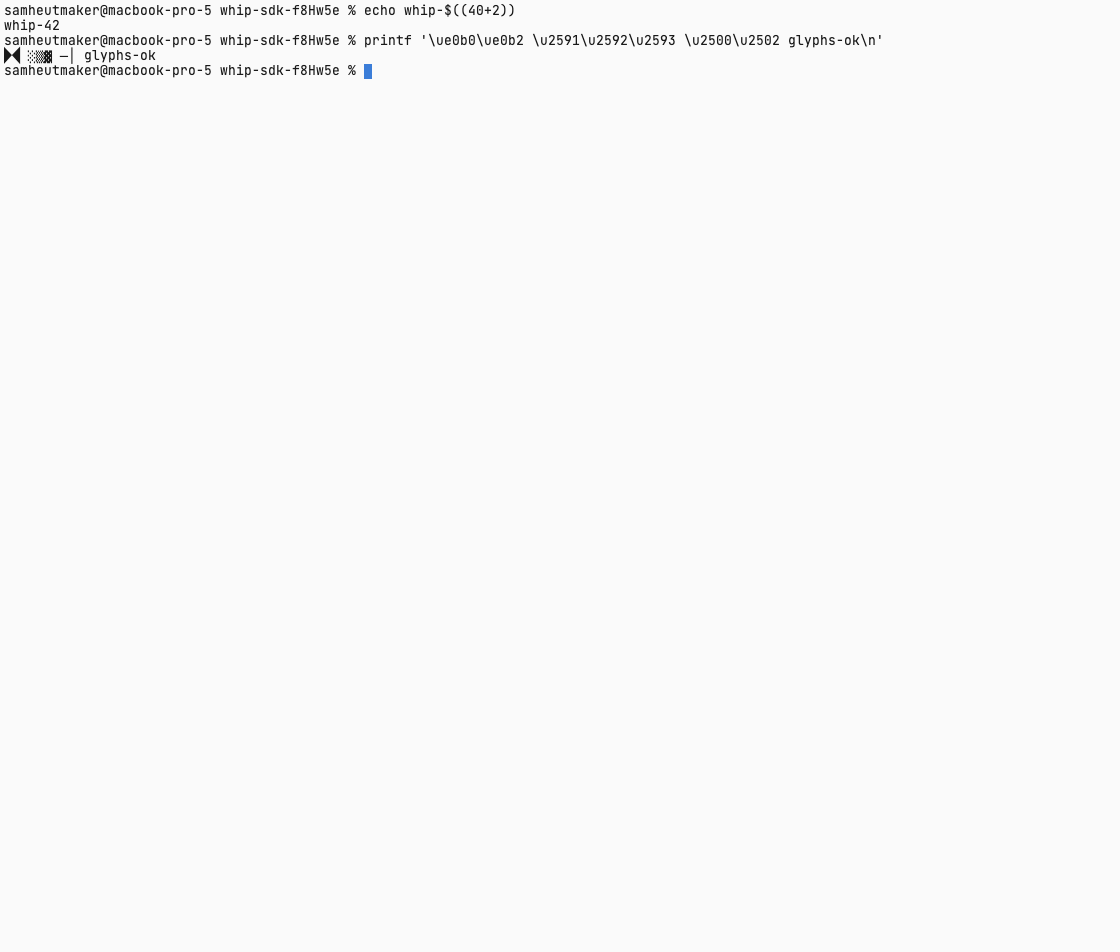
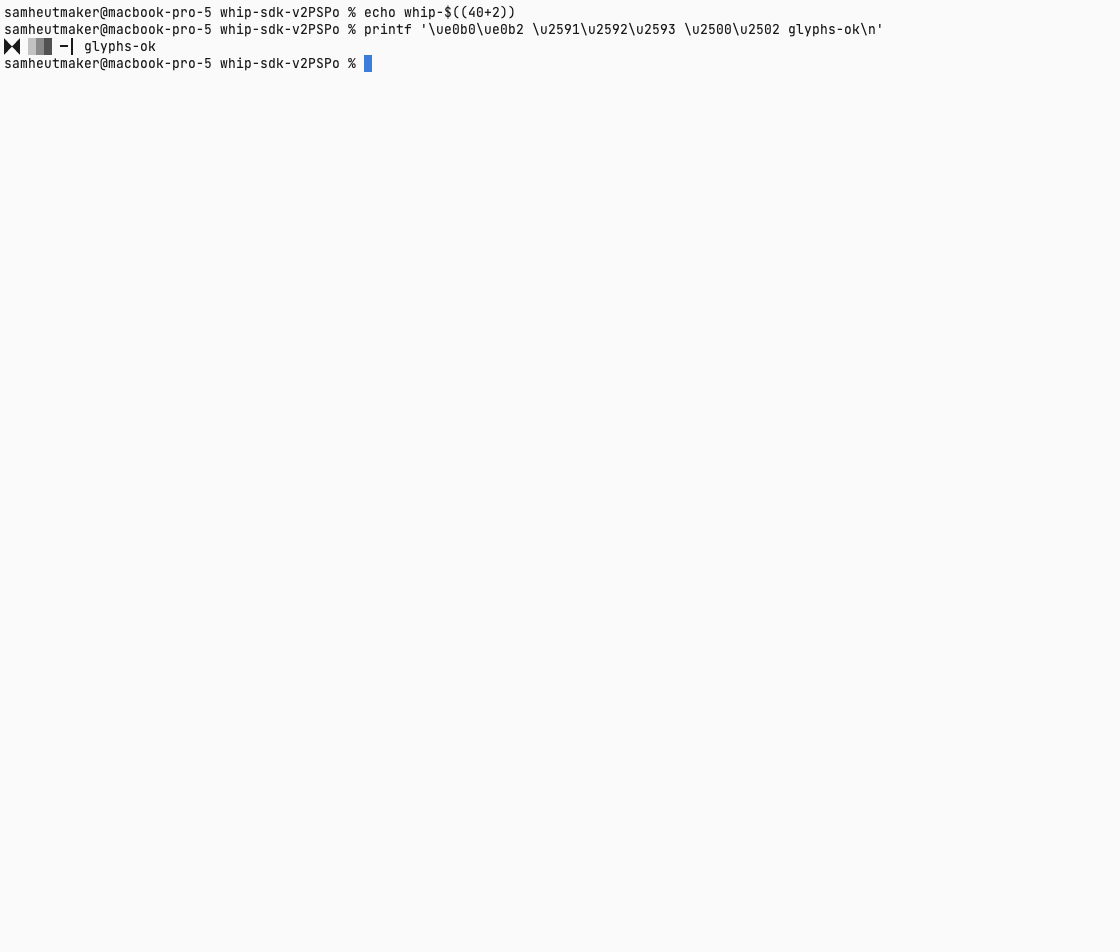
Draw terminal block and powerline glyphs with Ghostty's sprite font
Block elements such as the shade characters a powerline prompt opens with
rendered as JetBrains Mono's dot patterns, while OpenCode shows the same
prompt as smooth bands. Upstream ghostty-web draws every cell with the font.
OpenCode's fork exposes Ghostty's sprite font from the WASM and rasterizes
box drawing, block elements and powerline shapes procedurally, the way the
native Ghostty renderer does.

Switch the app's ghostty-web dependency to that fork, pinned to the commit
OpenCode ships. The fork commits its built assets, so installs need neither
Zig nor Bun; its WASM is 968 KB instead of 423 KB. The Nerd Font fallback
stays for glyphs outside the sprite set. The plan records the decision and
the path back to the npm release once upstream ships sprites.

Both browser fixtures pass with the fork, and the saved glyph screenshots
show solid separators and banded shade blocks.

Changed region(s): [[0.0, 0.0, 0.7812, 0.0914]]

diff --git a/.ai-docs/plans/terminal-tabs/README.md b/.ai-docs/plans/terminal-tabs/README.md
@@ -402,6 +402,15 @@ reader of the plan is not misled:
   ones supply the glyphs per character, absent ones are skipped. The view also waits for
   `document.fonts.ready` (2 s cap) because ghostty-web sizes cells from one measurement at open.
   The fixture prints the glyphs and saves `*-glyphs.png` for visual review.
+- **Renderer dependency is OpenCode's ghostty-web fork, pinned by commit.** Upstream
+  `ghostty-web@0.4.0` draws every cell with the font, so block elements such as `░▒▓` come
+  out as the font's dot patterns and powerline shapes need a Nerd Font. The `anomalyco/ghostty-web`
+  fork (`83c0a07b`, the commit OpenCode ships) exposes Ghostty's sprite font from the WASM and
+  rasterizes box drawing, block elements and powerline glyphs procedurally, which is how OpenCode
+  renders the same prompt as smooth bands and solid triangles. `packages/app/package.json` pins
+  `github:anomalyco/ghostty-web#83c0a07b…`; the fork commits its `dist/`, so installs need no Zig
+  or Bun. Its WASM is 968 KB instead of 423 KB. The Nerd Font fallback stays for glyphs outside the
+  sprite set, such as icon code points. Move back to the npm release when upstream ships sprites.
 - **Keystroke coalescing.** Each key was its own `terminal.write` RPC; typing faster than the
   round trip exceeded the SDK's 32 in-flight request cap and silently dropped characters
   (the glyph check lost everything past the 32nd byte). `createWriteQueue` keeps one write in
